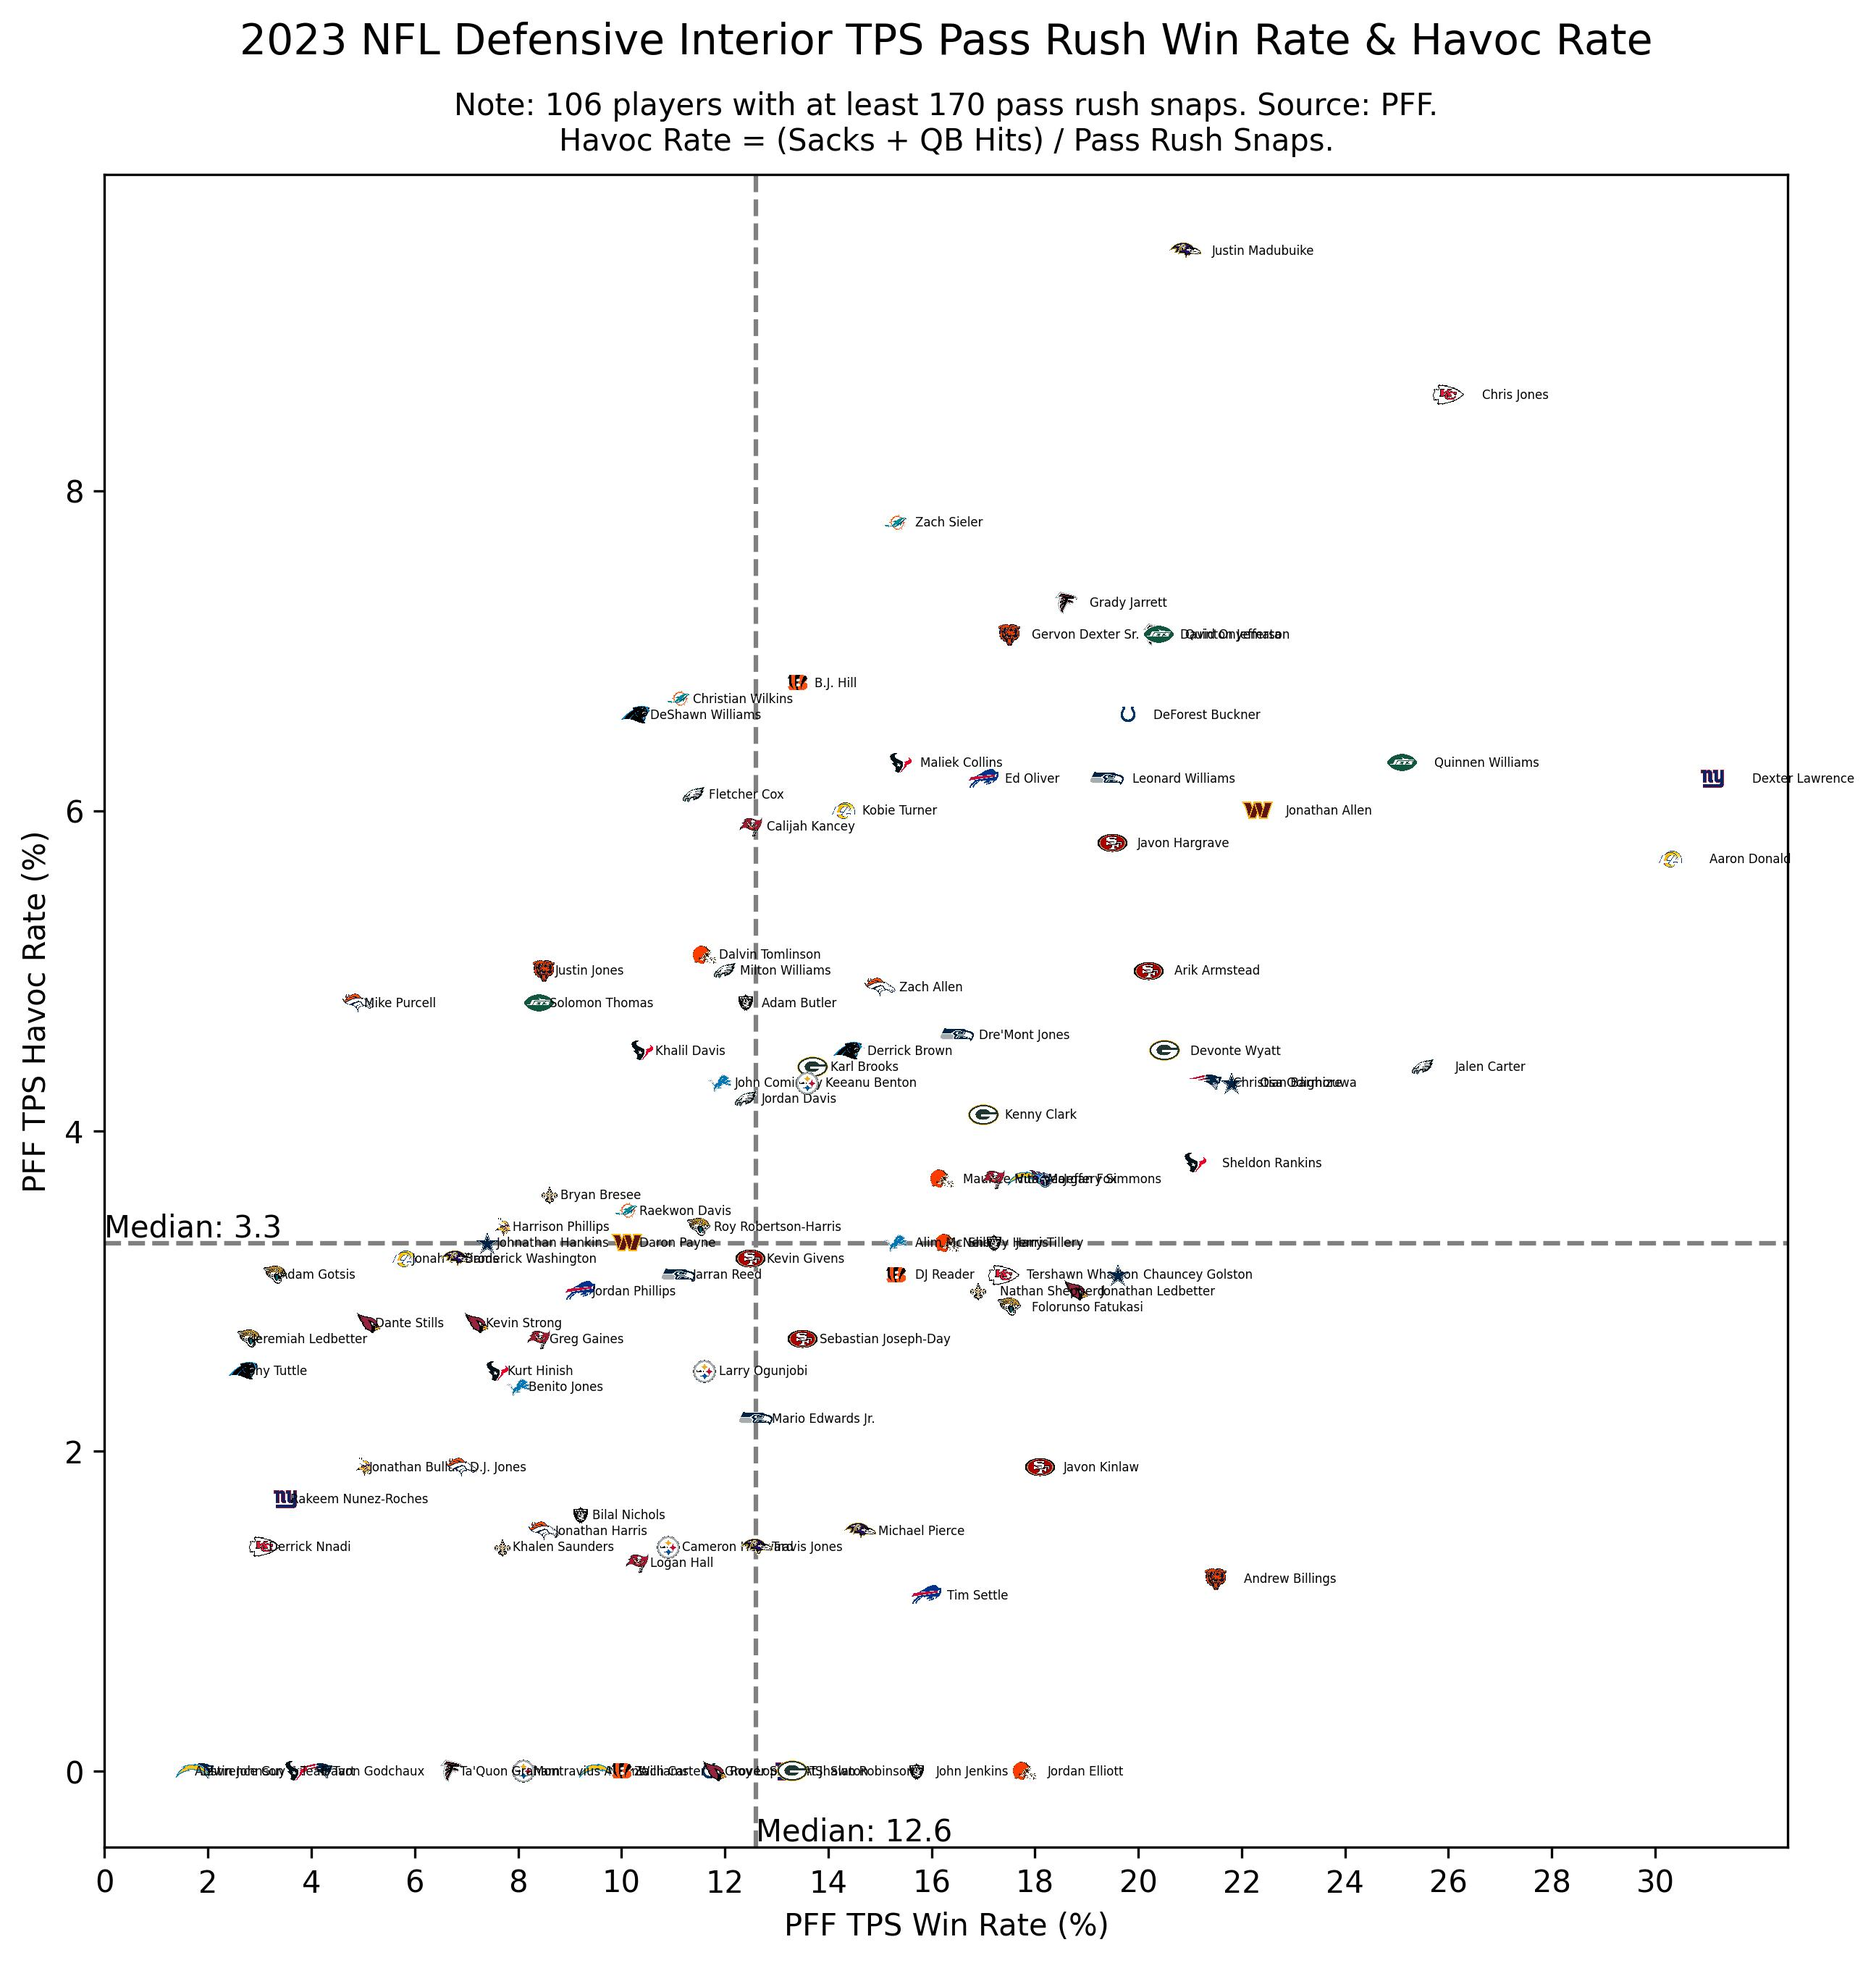
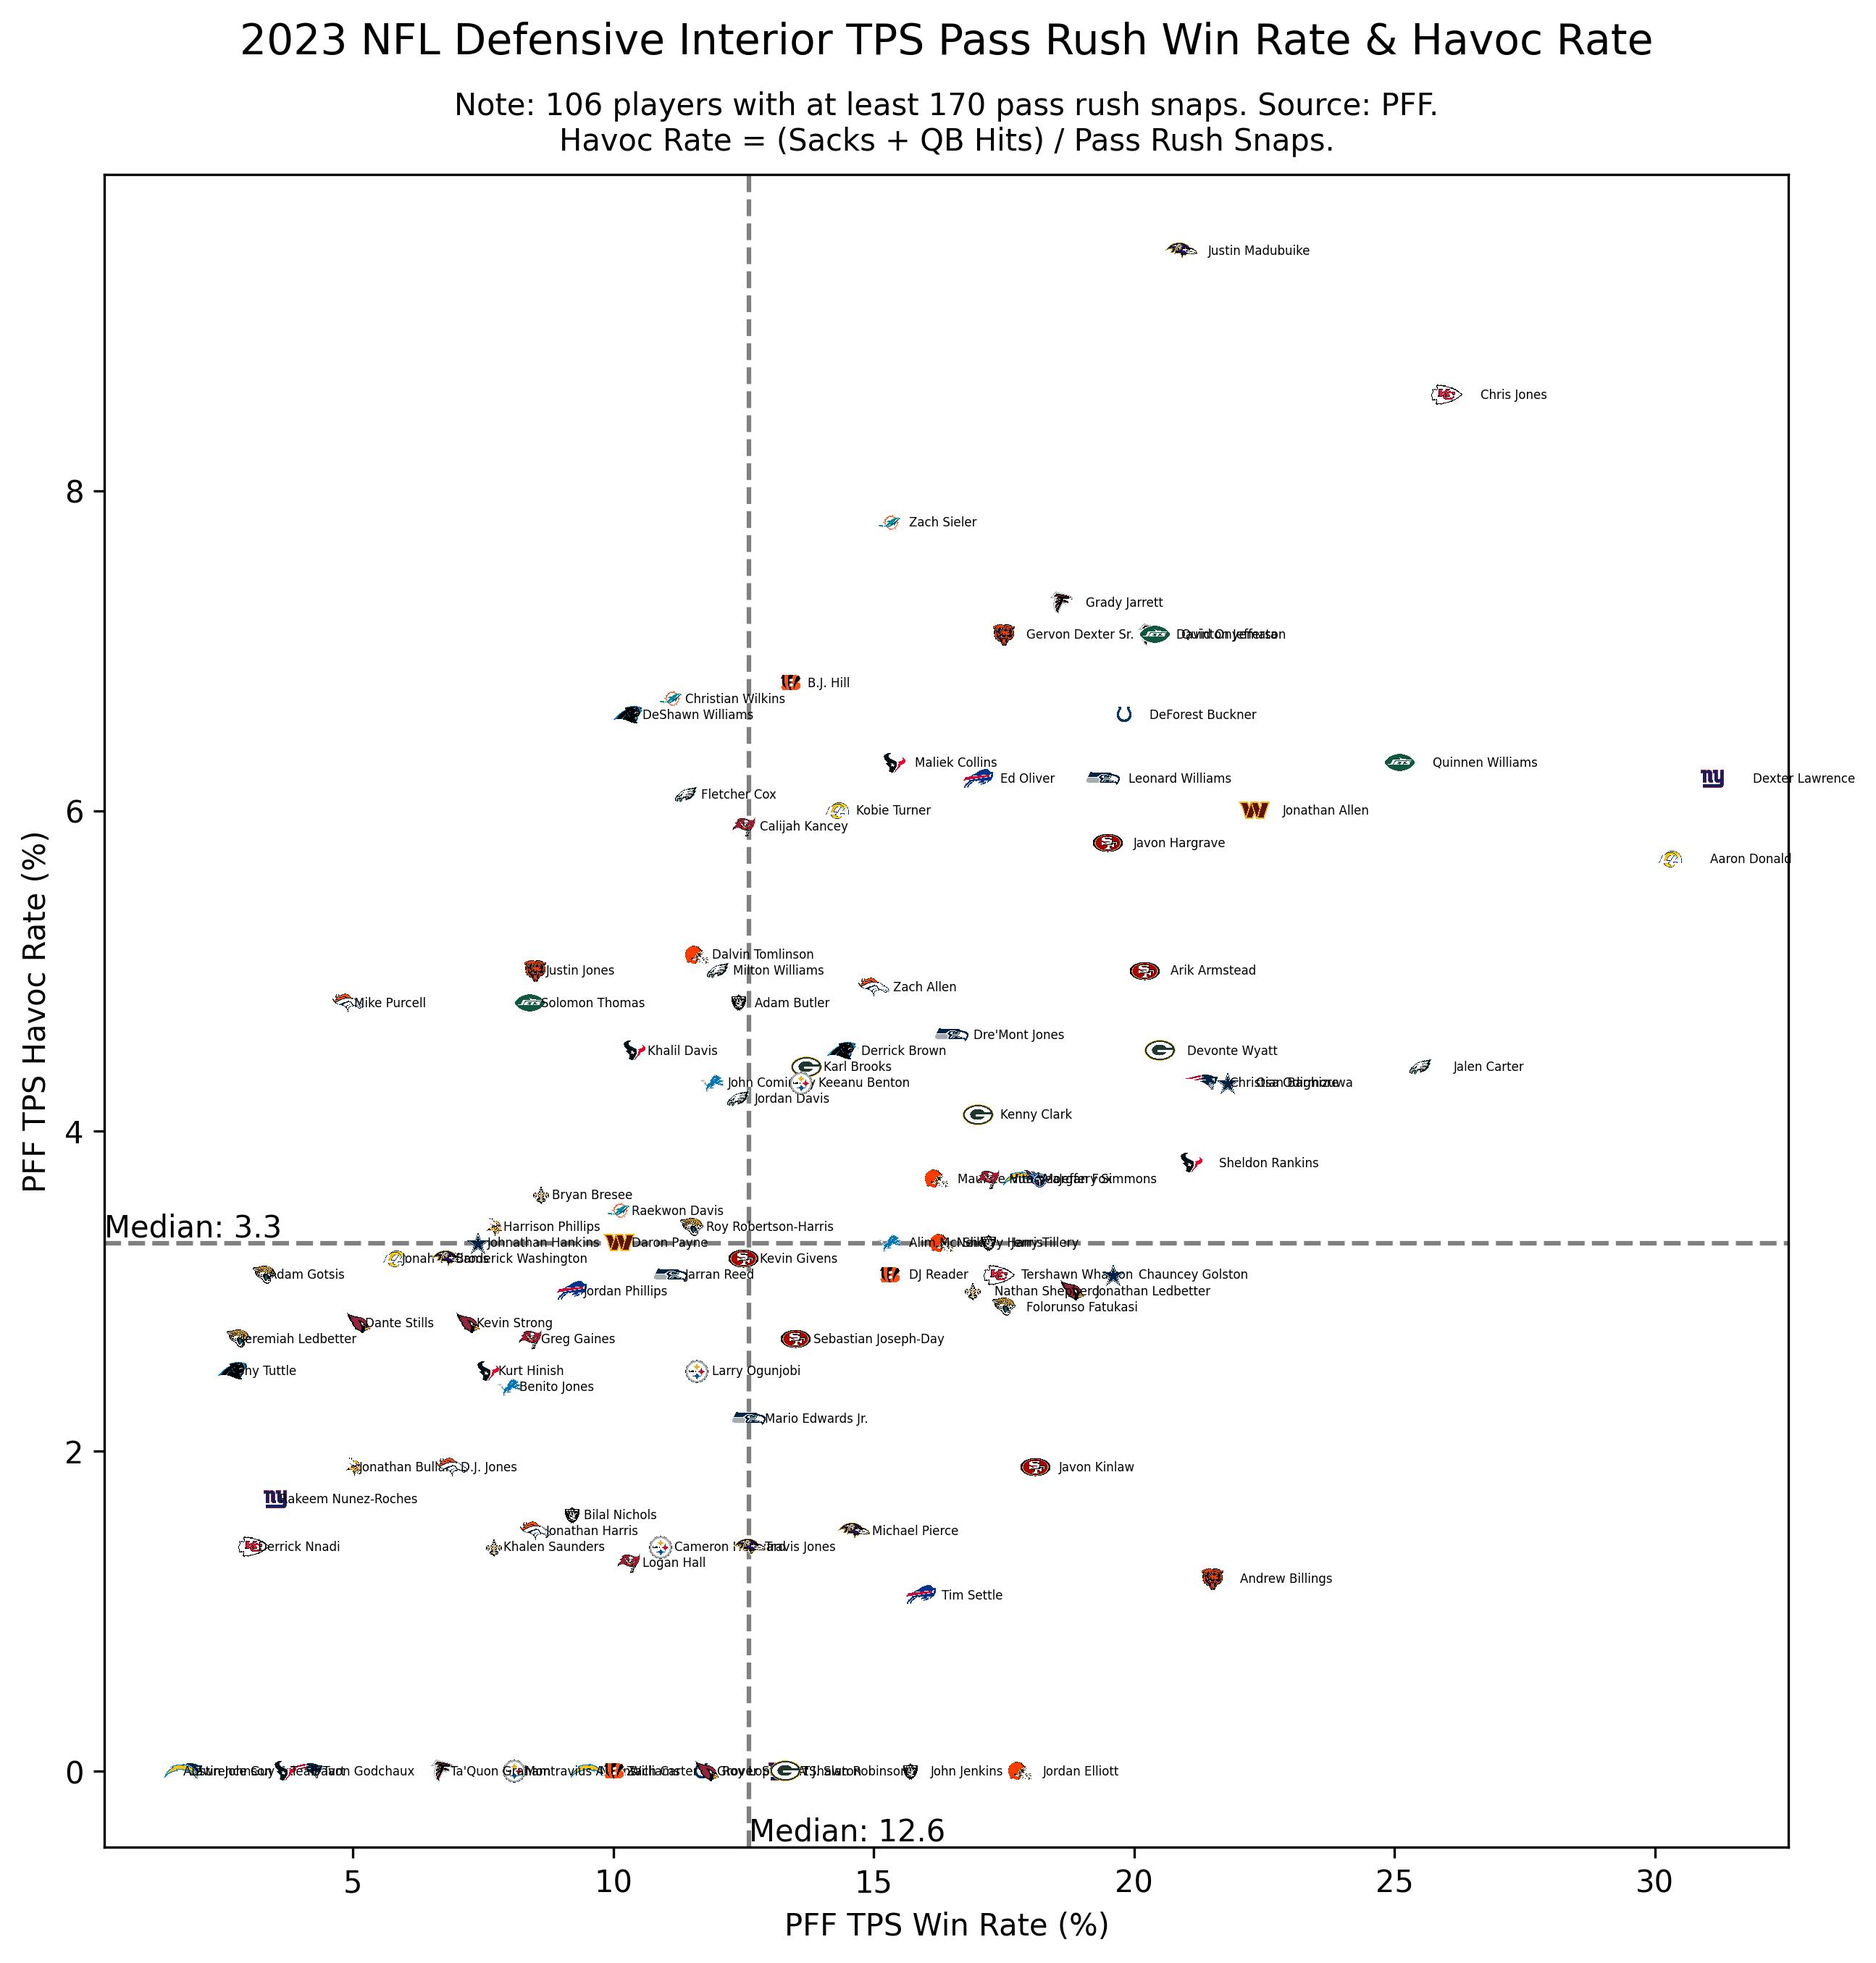
Added pressure rate.

diff --git a/scatter_plots/pass_rush.py b/scatter_plots/pass_rush.py
@@ -37,21 +37,20 @@ def plot_metrics(season: int, position: str, snaps_threshold: int,
     y_axis_dict.update({'col': f"{y_axis_dict['metric']}",
                         'label': f"PFF {y_axis_dict['metric']}{y_label_suffix}"})
 
-    # Use white dots to prevent blocking team logos.
+    # White dots prevent blocking team logos.
     sns.scatterplot(data=pass_rush_df, x=x_axis_dict['col'],
                     y=y_axis_dict['col'], s=100, color='white')
 
     for _, row in pass_rush_df.iterrows():  # Logo & name annotations.
         x_value, y_value = row[x_axis_dict['col']], row[y_axis_dict['col']]
-
         logo_box = AnnotationBbox(logo_boxes[row['Team']], (x_value, y_value),
                                   frameon=False, box_alignment=(0.5, 0.5))
         plt.gca().add_artist(logo_box)
 
-        plt.text(  # Ensure text is a bit righter from logo.
+        plt.text(
             x=1.025 * x_value, y=y_value, s=row['Player'],
             fontdict=dict(color='black', size=name_size, ha='left', va='center')
-        )
+        )  # Ensure text is a bit righter from logo.
 
     title = f"{season} NFL {FRONT_7_NAMES[position]} {tps_suffix}Pass Rush {x_metric} & {y_metric}"
     plt.title(title, fontsize=14, pad=40)
@@ -85,5 +84,4 @@ def plot_metrics(season: int, position: str, snaps_threshold: int,
 if __name__ == "__main__":
     from config import HAVOC_NOTE
     plot_metrics(2023, 'DI', 170,
-                 'Wins', 'Havoc', x_rate=False, y_rate=False,
-                 use_tps=True, extra_note=HAVOC_NOTE)
+                 'Win Rate', 'Havoc Rate', extra_note=HAVOC_NOTE)

diff --git a/preprocessing/front_7.py b/preprocessing/front_7.py
@@ -23,11 +23,21 @@ def preprocess_front_7(season: int):
         positional_df['Havoc Rate'] *= 100
         positional_df['Havoc Rate'] = positional_df['Havoc Rate'].round(1)
 
+        positional_df['Pressure Rate'] = positional_df['Pressures'] / positional_df['PR Snaps']
+        positional_df['Pressure Rate'].fillna(inplace=True, value=0)
+        positional_df['Pressure Rate'] *= 100
+        positional_df['Pressure Rate'] = positional_df['Pressure Rate'].round(1)
+
         positional_df['TPS Havoc'] = positional_df['TPS Sacks'] + positional_df['TPS Hits']
         positional_df['TPS Havoc Rate'] = positional_df['TPS Havoc'] / positional_df['TPS PR Snaps']
         positional_df['TPS Havoc Rate'].fillna(inplace=True, value=0)
         positional_df['TPS Havoc Rate'] *= 100
         positional_df['TPS Havoc Rate'] = positional_df['TPS Havoc Rate'].round(1)
+
+        positional_df['TPS Pressure Rate'] = positional_df['TPS Pressures'] / positional_df['TPS PR Snaps']
+        positional_df['TPS Pressure Rate'].fillna(inplace=True, value=0)
+        positional_df['TPS Pressure Rate'] *= 100
+        positional_df['TPS Pressure Rate'] = positional_df['TPS Pressure Rate'].round(1)
 
         positional_sheets.update({position: positional_df})
 

diff --git a/utils/renamers.py b/utils/renamers.py
@@ -11,6 +11,9 @@ def rename_pass_rush_columns(columns: list):
         if 'Wins' in renamed_col:
             renamed_col = renamed_col.replace('Pass Rush ', '')
 
+        if 'Total Pressures' in renamed_col:
+            renamed_col = renamed_col.replace('Total ', '')
+
         if 'Snap Counts Pass Rush' in renamed_col:
             renamed_col = renamed_col.replace('Snap Counts Pass Rush', 'PR Snaps')
 
